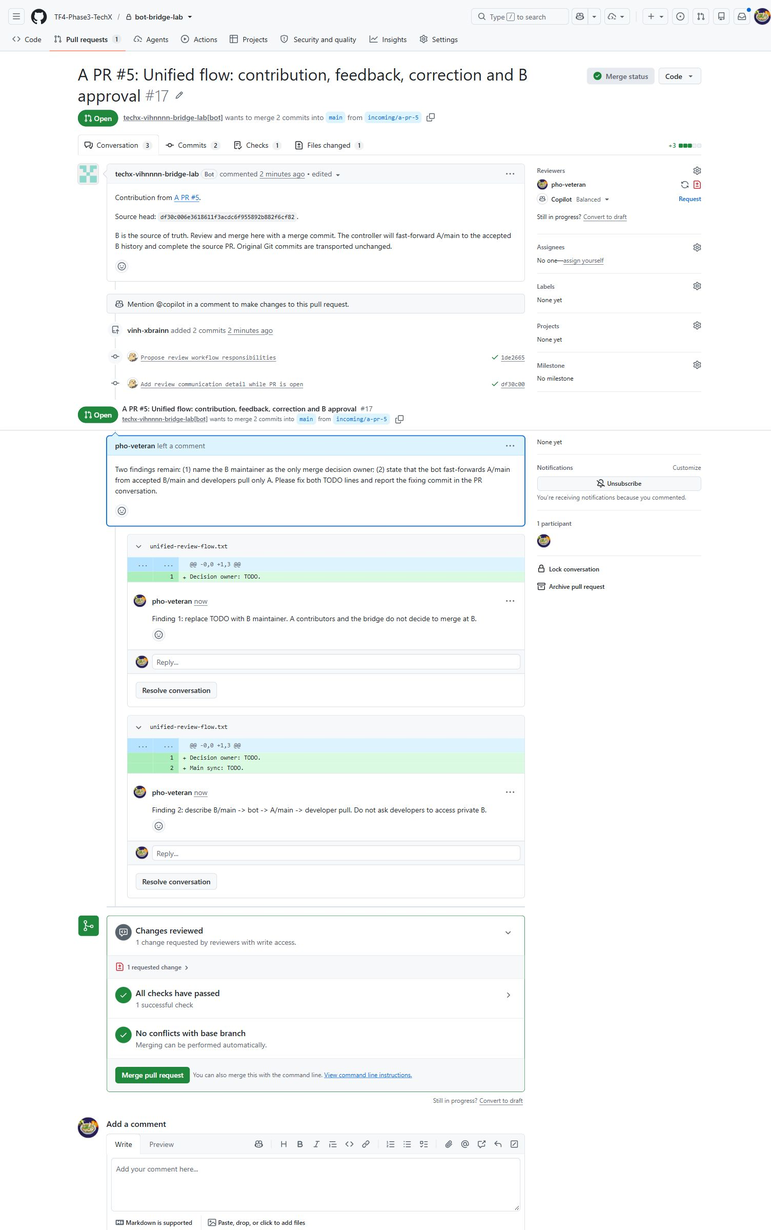
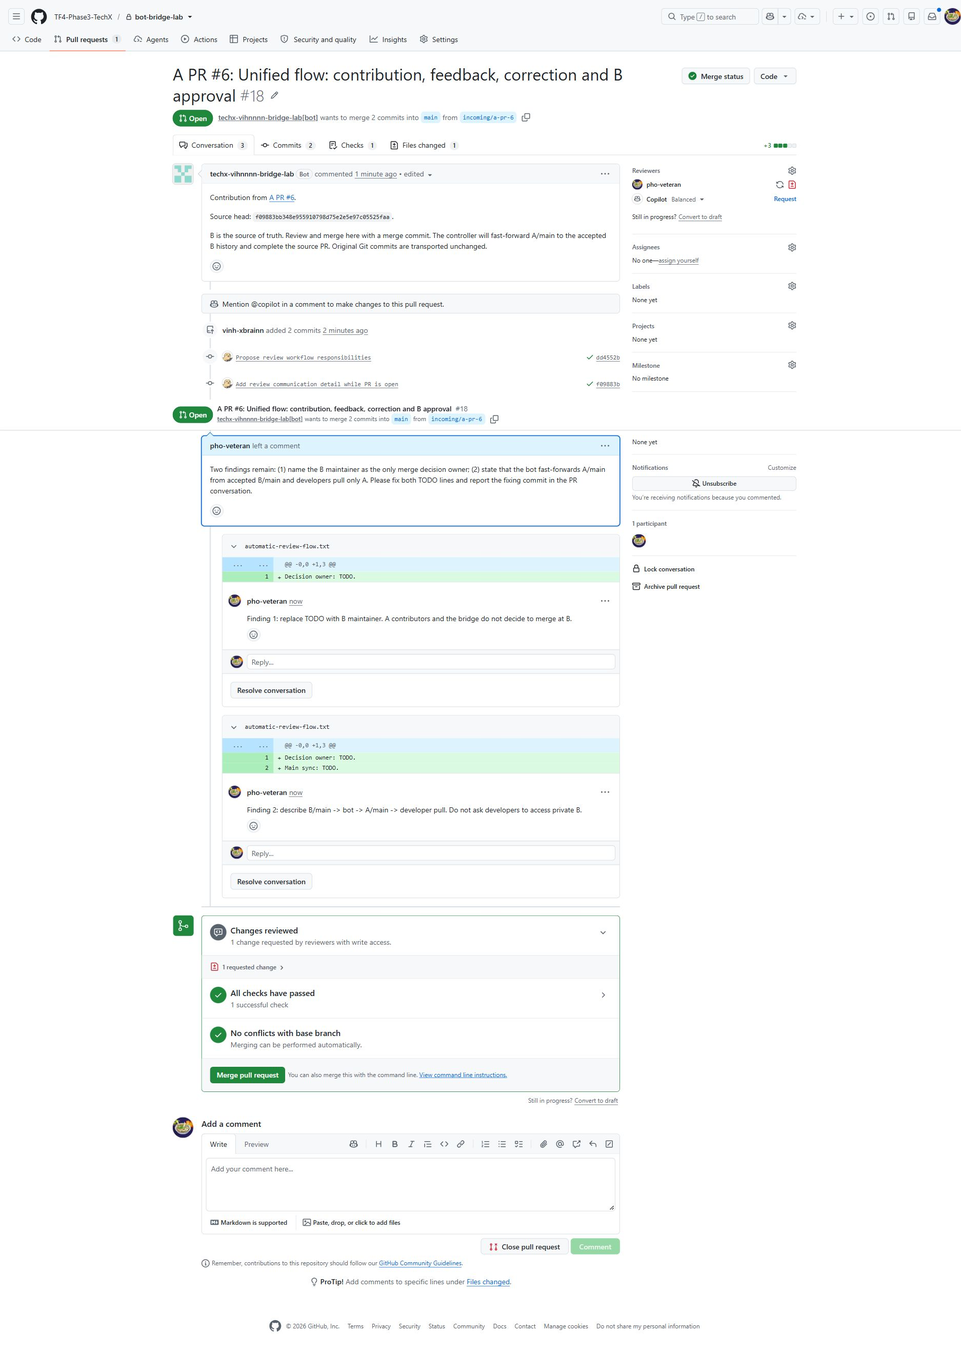
Document automatic B main push reconciliation with fresh end-to-end evidence

diff --git a/github-app-proposal.md b/github-app-proposal.md
@@ -25,6 +25,7 @@ Các ràng buộc:
 Member A clone/pull A/main → tạo feature branch → mở PR A, không merge
 → Controller đọc PR A, App B push branch đóng góp và mở PR B
 → Maintainer B review/test và merge vào B/main
+→ Sự kiện push tại B/main chạy notifier, App dispatch gọi controller
 → App A fast-forward A/main về đúng SHA của B/main
 → GitHub ghi nhận PR A đã merge vì commit đã nằm trong A/main
 → Member A pull từ repo A
@@ -32,11 +33,11 @@ Member A clone/pull A/main → tạo feature branch → mở PR A, không merge
 
 B chưa merge thì đóng góp vẫn nằm trên branch. B từ chối thì đóng góp không vào main. Bot không gọi API merge tại B và không tạo merge commit độc lập tại A. B dùng **Create a merge commit** để giữ nguyên commit gốc.
 
-Luồng hợp nhất đã chạy thật ngày **20/10/2026**, dùng cùng cặp PR **A #5 / B #17**: mở PR → thêm commit → Request changes → sửa và trao đổi comment hai chiều → approve → B merge → Actions reconcile A/main → PR A hoàn tất. Controller và key nằm trong repo riêng do B quản lý; developer A chỉ dùng repo A.
+Luồng hợp nhất đã chạy thật ngày **20/10/2026**, dùng cùng cặp PR **A #6 / B #18**: mở PR → thêm commit → Request changes → sửa và trao đổi comment hai chiều → approve → B merge → Actions reconcile A/main → PR A hoàn tất. Controller và key vận chuyển code nằm trong repo riêng do B quản lý; key dispatch chỉ nằm tại repo B; developer A chỉ dùng repo A.
 
 App B cần `Contents: write` để chuyển commit sang branch của repo B độc lập. GitHub không có permission đủ cho luồng này mà chỉ cho mở PR, tuyệt đối không cho merge. Để cưỡng chế “B quyết định”, phải kết hợp quyền App với bảo vệ B/main ở mục 2.4.
 
-GitHub App không tiêu thụ user seat. Actions của luồng mới chạy tại repo controller ở **org B**; chi phí phụ thuộc hạn mức và sử dụng của org này. Chi phí gói hỗ trợ branch protection là khoản riêng. [GitHub App và seat](https://docs.github.com/en/apps/creating-github-apps/about-creating-github-apps/deciding-when-to-build-a-github-app).
+GitHub App không tiêu thụ user seat. Actions notifier và controller chạy tại **org B**; chi phí phụ thuộc hạn mức và sử dụng của org này. Chi phí gói hỗ trợ branch protection là khoản riêng. [GitHub App và seat](https://docs.github.com/en/apps/creating-github-apps/about-creating-github-apps/deciding-when-to-build-a-github-app).
 
 Giải pháp giữ metadata tác giả, nhưng author/email tự cấu hình được nên chưa chứng minh danh tính người tạo commit. Nếu cần chống giả mạo, phải yêu cầu ký commit và xác minh signer; lab chưa cấu hình ký commit. App token không cấp cho tài khoản cá nhân A quyền mở giao diện private repo B.
 
@@ -44,7 +45,7 @@ Một cặp PR được giữ xuyên suốt các lần sửa. Code đi A → B; 
 
 ## 2. Setup lab GitHub App
 
-### 2.1. Tạo hai App và giới hạn quyền
+### 2.1. Tạo hai App vận chuyển code và giới hạn quyền
 
 Trong session `pho-veteran`, mở **TF4-Phase3-TechX → Settings → Developer settings → GitHub Apps → New GitHub App**. Tạo hai App do B quản lý:
 
@@ -101,13 +102,43 @@ Các file đã triển khai trong controller:
 - [`scripts/pr-bridge-comments.mjs`](https://github.com/TF4-Phase3-TechX/bot-bridge-controller/blob/main/scripts/pr-bridge-comments.mjs): sao chép comment hội thoại hai chiều, giữ nguồn và chống vòng lặp.
 - [`tests`](https://github.com/TF4-Phase3-TechX/bot-bridge-controller/tree/main/tests): 16 test gồm 7 policy/boundary, 5 review và 4 đồng bộ hội thoại.
 
-Controller chạy lịch ở phút **7, 22, 37, 52 mỗi giờ** hoặc được maintainer B bấm **Actions → Isolated bridge - B decides → Run workflow → main**. Cả chuyển PR sang B lẫn đồng bộ về A đều qua polling; mở PR tại A không kích hoạt ngay controller. Actions có thể bị trễ lịch.
+Khi **B/main có push mới**, gồm merge PR và commit trực tiếp, workflow tại B tự dispatch controller. Không cần maintainer bấm Run workflow hoặc đợi lịch để đồng bộ B/main về A/main. GitHub nhận sự kiện ngay; thời điểm job bắt đầu và hoàn tất vẫn phụ thuộc hàng đợi Actions.
+
+Lịch **7, 22, 37, 52 mỗi giờ** được giữ để đọc PR/comment/review và phục hồi nếu notifier lỗi. Mở PR, push feature hoặc viết comment tại A vẫn chờ lịch này, hoặc maintainer B bấm **Actions → Isolated bridge - B decides → Run workflow → main**. Không coi các sự kiện đó là realtime trong lab.
 
 Job `policy` kiểm tra code trước; job `reconcile` chỉ chạy trên main của đúng repo controller, khi bật `BRIDGE_ENABLED` và sự kiện là schedule/dispatch. Các lượt reconcile chạy tuần tự. `GITHUB_TOKEN` chỉ có Contents read để checkout controller; hai App tạo installation token giới hạn đúng một repo trong mỗi lượt chạy. Không lưu PAT cá nhân vào Actions.
 
 Job có key chỉ checkout main của controller do B quản lý. PR A được đọc như dữ liệu và Git objects, không checkout/chạy code, hook hoặc dependency từ contribution. CI chạy riêng không nhận key bridge; các action được pin bằng commit SHA.
 
 Lab đã tắt workflow cũ `bridge-to-b.yml` tại cả A và B, gỡ secret/variable bridge cũ tại A. API xác nhận **repo A có 0 Actions secrets**. Member A không có quyền đọc repo controller. Các file controller cũ có thể còn trong lịch sử repo lab, nhưng luồng đang chạy dùng repo controller riêng ở trên.
+
+**App thứ ba chỉ dùng để kích hoạt controller**
+
+1. B tạo `TechX Controller Dispatch Lab`: chỉ `Actions: read and write`, `Metadata: read`; các quyền khác No access, webhook tắt, chỉ cho cài tại org B.
+2. Cài App với **Only select repositories → bot-bridge-controller**. Không cài App dispatch tại repo code A hoặc B.
+3. Tại **repo B → Settings → Secrets and variables → Actions**, lưu variable `CONTROLLER_DISPATCH_APP_CLIENT_ID` = `Iv23li4rfDPJcho8vRzt`, secret `CONTROLLER_DISPATCH_APP_PRIVATE_KEY` = PEM của App dispatch. Key hai App vận chuyển code vẫn chỉ ở controller.
+4. Deploy controller có inputs `source_repo`, `source_sha`, `source_run_id` trước; sau đó B thêm [`.github/workflows/notify-controller.yml`](https://github.com/TF4-Phase3-TechX/bot-bridge-lab/blob/main/.github/workflows/notify-controller.yml) vào main.
+
+App dispatch đã cài: App ID `5390691`, installation `173256492`; API xác nhận chỉ thấy `TF4-Phase3-TechX/bot-bridge-controller`.
+
+```text
+B/main push
+→ B: Notify controller on B main update
+→ Token App dispatch, chỉ repo controller / Actions write
+→ POST controller.yml/dispatches, ref=main
+→ Controller: policy → reconcile
+→ Đọc B/main thực tế → fast-forward A/main → cập nhật PR A
+```
+
+Notifier không checkout/chạy code contribution; `GITHUB_TOKEN` có `permissions: {}`. Repo đích, workflow và ref được cố định trong YAML. SHA và run ID chỉ để truy vết; controller không dùng SHA do người gọi gửi để thay thế B/main thực tế. Bản workflow được đồng bộ sang A nhưng job có điều kiện đúng repo B và `refs/heads/main`, nên bị skip ở A và không tạo vòng lặp.
+
+`Actions: write` áp dụng toàn repo controller, **không phải quyền chỉ chạy một workflow**. Bảo vệ key dispatch và quyền sửa workflow B; không checkout code PR hoặc dùng `pull_request_target` với key này. Người sửa được workflow B có thể sử dụng credential dispatch. Controller vẫn phải kiểm tra repo/ref và giữ nguyên các guard ở mục 2.4.
+
+Push do `GITHUB_TOKEN` tạo thường không kích hoạt workflow tiếp theo. Automation ghi B/main phải dùng GitHub App token phù hợp hoặc gọi dispatch rõ ràng; lab kiểm tra push và merge bằng tài khoản maintainer. Nếu push có chỉ thị skip CI hoặc Actions bị tắt thì notifier cũng không đảm bảo chạy; lịch controller là phương án phục hồi. [Quy tắc kích hoạt bằng token](https://docs.github.com/en/actions/concepts/security/github_token).
+
+**Kiểm tra khi cài notifier:** commit trực tiếp `5c1db8e` tại B/main tự tạo [notifier run 39366960115](https://github.com/TF4-Phase3-TechX/bot-bridge-lab/actions/runs/39366960115), rồi [controller run 39366971430](https://github.com/TF4-Phase3-TechX/bot-bridge-controller/actions/runs/39366971430) sau 8 giây. Cả hai Success; A/main được fast-forward về đúng SHA của B. Phần 3 kiểm tra tiếp trường hợp merge PR.
+
+![Kiểm tra push trực tiếp: App dispatch tự chạy controller và đồng bộ A/main](proposal-images/auto-02-direct-push.png)
 
 ### 2.4. Guard đã triển khai và bảo vệ nhánh cần bổ sung
 
@@ -195,11 +226,13 @@ Endpoint chỉ chấp nhận đúng lệnh, repo/installation đã cấu hình v
 
 Dùng credential riêng chỉ cài tại controller với Actions write để dispatch; giữ credential ở endpoint do B quản lý, không đặt ở A và không mở rộng quyền App B vận chuyển code. Actions write là quyền cấp repo, không tự giới hạn vào một workflow; endpoint phải cưỡng chế danh sách thao tác được phép. Developer chỉ có quyền yêu cầu chạy lại, không có quyền merge, force-sync hay bỏ qua trạng thái review. [API workflow dispatch](https://docs.github.com/en/rest/actions/workflows#create-a-workflow-dispatch-event).
 
-Đây là phần mở rộng **chưa triển khai**: cần endpoint chạy được từ Internet, cấu hình webhook App A và credential dispatch. Lệnh `/bridge sync` hiện chưa có tác dụng trong lab. Nếu chỉ bổ sung đọc lệnh qua lịch polling thì không cần endpoint, nhưng vẫn phải đợi lịch; đó không phải kích hoạt ngay. Thời gian chạy sau dispatch cũng phụ thuộc hàng đợi GitHub Actions.
+Đây là phần mở rộng **chưa triển khai**: cần endpoint chạy được từ Internet và cấu hình webhook App A; credential cho endpoint phải được cấp riêng. App dispatch ở mục 2.3 hiện chỉ phục vụ workflow B/main, chưa có endpoint nhận lệnh từ A. Lệnh `/bridge sync` hiện chưa có tác dụng trong lab. Nếu chỉ bổ sung đọc lệnh qua lịch polling thì không cần endpoint, nhưng vẫn phải đợi lịch; đó không phải kích hoạt ngay. Thời gian chạy sau dispatch cũng phụ thuộc hàng đợi GitHub Actions.
 
 ## 3. Triển khai — Một luồng từ contribution đến B merge và A reconcile
 
-Lượt test ngày **20/10/2026** dùng duy nhất [PR A #5](https://github.com/Vihnnnn/bot-bridge-lab/pull/5) và [PR B #17](https://github.com/TF4-Phase3-TechX/bot-bridge-lab/pull/17). Mỗi ảnh dưới đây thuộc cặp PR này hoặc Actions xử lý cặp PR này.
+Lượt test ngày **20/10/2026** dùng duy nhất [PR A #6](https://github.com/Vihnnnn/bot-bridge-lab/pull/6) và [PR B #18](https://github.com/TF4-Phase3-TechX/bot-bridge-lab/pull/18). Mỗi ảnh dưới đây thuộc cặp PR này hoặc Actions xử lý cặp PR này.
+
+Ảnh diff sửa và comment “đã xử lý” được chụp lại sau khi luồng hoàn tất để thấy đủ nội dung; badge Merged trên các ảnh đó là trạng thái lúc chụp. Commit, review và comment trong timeline ghi lại đúng thứ tự các bước.
 
 ```text
 A mở PR → bot mở PR B
@@ -207,45 +240,45 @@ A mở PR → bot mở PR B
 → B Request changes → bot đưa đầy đủ findings về A
 → A sửa diff + comment đã xử lý → bot chuyển code và comment sang B
 → B approve + phản hồi → bot đưa approval và comment về A
-→ Maintainer B merge
-→ Actions controller reconcile A/main từ B/main
+→ Maintainer B merge → B/main push kích hoạt notifier
+→ App dispatch tự gọi Actions controller → reconcile A/main từ B/main
 → PR A hoàn tất → developer pull từ repo A
 ```
 
-Tất cả lệnh developer dưới đây chỉ truy cập A. Controller chạy theo lịch hoặc được maintainer B dispatch tại repo controller. Trong lượt lab, mỗi mốc dùng dispatch để quan sát ngay; không đặt credential controller ở A.
+Tất cả lệnh developer dưới đây chỉ truy cập A. Các mốc chuyển PR, commit, review và comment trong lượt test dùng maintainer dispatch để quan sát ngay thay vì chờ lịch. Riêng sau B merge, notifier tự dispatch controller từ sự kiện push; không có thao tác Run workflow của maintainer. Không đặt credential controller ở A.
 
 ### Bước 1 — Developer tạo branch, commit và mở PR A
 
-Đầu lượt test, A/main và B/main cùng ở `ad284ade83f7633d3dbe0f89b52ca3ebfa716f3b`. Developer dùng tài khoản `vinh-xbrainn`:
+Đầu lượt test, A/main và B/main cùng ở `5c1db8e9700b777821cd4a8208f05d109a30b76b`. Developer dùng tài khoản `vinh-xbrainn`:
 
 ```powershell
 git clone https://github.com/Vihnnnn/bot-bridge-lab.git
 Set-Location bot-bridge-lab
 git switch main
 git pull --ff-only origin main
-git switch -c feature/unified-review-flow-20261020
+git switch -c feature/automatic-review-flow-20261020
 
 @(
   'Decision owner: TODO.'
   'Main sync: TODO.'
-) | Set-Content -LiteralPath unified-review-flow.txt -Encoding ASCII
+) | Set-Content -LiteralPath automatic-review-flow.txt -Encoding ASCII
 
-git add unified-review-flow.txt
+git add automatic-review-flow.txt
 git commit -m 'Propose review workflow responsibilities'
-git push -u origin feature/unified-review-flow-20261020
+git push -u origin feature/automatic-review-flow-20261020
 ```
 
 Git author/email phải là thông tin của developer. Lượt lab dùng email đã liên kết với `vinh-xbrainn`; không dùng tên bot thay cho tác giả. Khi tái hiện, dùng branch/file mới; SHA sẽ khác.
 
-Tại A chọn **Pull requests → New pull request**, base `main`, compare branch vừa push. Mở PR, không merge tại A. Commit đầu của lượt test là **`1de2665`**.
+Tại A chọn **Pull requests → New pull request**, base `main`, compare branch vừa push. Mở PR, không merge tại A. Commit đầu của lượt test là **`dd4552b`**.
 
-![PR A số 5 do developer mở, có một commit và đang Open](proposal-images/flow-01-a-open.png)
+![PR A số 6 do developer mở, có một commit và đang Open](proposal-images/flow-01-a-open.png)
 
 ### Bước 2 — Bot mở PR tương ứng tại B
 
-Controller đọc PR A, chuyển nguyên commit sang branch `incoming/a-pr-5` và mở **PR B #17**. App A báo trạng thái chờ B tại PR A. [Run chuyển PR đầu tiên](https://github.com/TF4-Phase3-TechX/bot-bridge-controller/actions/runs/39364621268) đã thành công.
+Controller đọc PR A, chuyển nguyên commit sang branch `incoming/a-pr-6` và mở **PR B #18**. App A báo trạng thái chờ B tại PR A. [Run chuyển PR đầu tiên](https://github.com/TF4-Phase3-TechX/bot-bridge-controller/actions/runs/39367026771) đã thành công.
 
-![App B mở PR số 17 từ contribution A số 5, giữ head và author gốc](proposal-images/flow-02-b-open.png)
+![App B mở PR số 18 từ contribution A số 6, giữ head và author gốc](proposal-images/flow-02-b-open.png)
 
 Hai main vẫn ở baseline. Mở PR và push feature branch chưa đưa contribution vào main.
 
@@ -254,23 +287,23 @@ Hai main vẫn ở baseline. Mở PR và push feature branch chưa đưa contrib
 Developer tiếp tục ngay trên branch đang mở:
 
 ```powershell
-Add-Content -LiteralPath unified-review-flow.txt -Value 'Review communication: mirrored comments between paired PRs.' -Encoding ASCII
-git add unified-review-flow.txt
+Add-Content -LiteralPath automatic-review-flow.txt -Value 'Review communication: mirrored comments between paired PRs.' -Encoding ASCII
+git add automatic-review-flow.txt
 git commit -m 'Add review communication detail while PR is open'
-git push origin feature/unified-review-flow-20261020
+git push origin feature/automatic-review-flow-20261020
 ```
 
-Commit thứ hai là **`df30c00`**:
+Commit thứ hai là **`f09883b`**:
 
-![Diff của commit bổ sung trên branch A khi PR vẫn đang mở](proposal-images/flow-03-a-new-commit.png)
+![Danh sách hai commit trên branch A khi PR vẫn đang mở](proposal-images/flow-03-a-new-commit.png)
 
-[Run cập nhật commit](https://github.com/TF4-Phase3-TechX/bot-bridge-controller/actions/runs/39364701675) đẩy head mới sang **cùng PR B #17**. Không mở thêm PR và không force-push.
+[Run cập nhật commit](https://github.com/TF4-Phase3-TechX/bot-bridge-controller/actions/runs/39367127332) đẩy head mới sang **cùng PR B #18**. Không mở thêm PR và không force-push.
 
-![PR B số 17 có hai commit của developer, gồm commit mới df30c00](proposal-images/flow-04-b-updated.png)
+![PR B số 18 có hai commit của developer, gồm commit mới f09883b](proposal-images/flow-04-b-updated.png)
 
 ### Bước 4 — B Request changes với hai findings cụ thể
 
-Maintainer B kiểm tra diff tại head `df30c00` rồi chọn **Review changes → Request changes**:
+Maintainer B kiểm tra diff tại head `f09883b` rồi chọn **Review changes → Request changes**:
 
 1. Dòng 1: xác định maintainer B là người quyết định merge.
 2. Dòng 2: mô tả bot fast-forward A/main từ B/main đã được chấp nhận; developer chỉ pull A.
@@ -296,16 +329,16 @@ Developer sửa cùng branch:
   'Decision owner: B maintainer.'
   'Main sync: the bot fast-forwards A/main from accepted B/main; developers pull only A.'
   'Review communication: mirrored comments between paired PRs.'
-) | Set-Content -LiteralPath unified-review-flow.txt -Encoding ASCII
+) | Set-Content -LiteralPath automatic-review-flow.txt -Encoding ASCII
 
 git diff
-git add unified-review-flow.txt
+git add automatic-review-flow.txt
 git commit -m 'Address both B review findings and clarify main synchronization'
-git push origin feature/unified-review-flow-20261020
+git push origin feature/automatic-review-flow-20261020
 git rev-parse HEAD
 ```
 
-Commit sửa của lượt test là **`8ed6b0f6b8a210170a55ced35e742ccc82d224d3`**:
+Commit sửa của lượt test là **`2c03f875b7e453ae88753a9d2c2f14bf9efa0ac3`**:
 
 ![Diff mới tại A thay hai TODO bằng nội dung đáp ứng findings của B](proposal-images/flow-07-a-fixed-diff.png)
 
@@ -313,7 +346,7 @@ Trong **Conversation** của PR A, developer gửi comment ghi rõ findings đã
 
 ![Developer A comment đã xử lý finding 1 và 2, nêu SHA và nội dung sửa](proposal-images/flow-08-a-addressed.png)
 
-Controller đưa commit mới và comment này sang PR B #17. Comment tại B ghi rõ người viết gốc là `vinh-xbrainn`, kèm liên kết comment nguồn. App đăng bản sao bằng identity của App, không giả danh developer.
+Controller đưa commit mới và comment này sang PR B #18. Comment tại B ghi rõ người viết gốc là `vinh-xbrainn`, kèm liên kết comment nguồn. App đăng bản sao bằng identity của App, không giả danh developer.
 
 ![PR B nhận comment đã xử lý findings từ A cùng SHA bản sửa](proposal-images/flow-09-b-addressed.png)
 
@@ -335,25 +368,41 @@ Comment hội thoại được sao chép **A ↔ B**; review đã submit và com
 
 Sau khi xác nhận đúng bản sửa, maintainer B chọn **Create a merge commit → Confirm merge**. Trong lab, thao tác dùng API với tài khoản `pho-veteran`, phương thức `merge` và expected head SHA. Bot không gọi merge endpoint.
 
-![PR B số 17 được maintainer B merge sau Request changes và Approved](proposal-images/flow-12-b-merged.png)
+![PR B số 18 được maintainer B merge sau Request changes và Approved](proposal-images/flow-12-b-merged.png)
 
-Merge commit là **`bfc5128aa61fc042aad57ab1e36b206791c2ac8b`**. B/main là lịch sử đã được chấp nhận. A/main được cập nhật trong lượt controller tiếp theo.
+Merge commit là **`40d3fb87978565ff8f9a2fd563887e7d8bdfcf3e`**. B/main là lịch sử đã được chấp nhận. Sự kiện push của merge này tự kích hoạt workflow notifier tại B; notifier gọi controller để cập nhật A/main.
 
-### Bước 9 — Actions reconcile A/main từ B/main
+### Bước 9 — B/main push tự kích hoạt Actions reconcile
+
+Merge PR B #18 tạo sự kiện `push` tại B/main. [Workflow notifier tại B — run 39367442048](https://github.com/TF4-Phase3-TechX/bot-bridge-lab/actions/runs/39367442048) tự chạy và dùng App dispatch gọi `controller.yml` trên main. Không bấm Run workflow sau merge.
+
+![B merge tạo push event và notifier tự gửi dispatch thành công](proposal-images/flow-12b-b-notify.png)
 
 Workflow tại repo controller đọc ref B/main thực tế và kiểm tra A/main có thể fast-forward. App A đẩy đúng merge SHA của B vào A/main; không tạo merge commit độc lập tại A.
 
-[Run 39365362024](https://github.com/TF4-Phase3-TechX/bot-bridge-controller/actions/runs/39365362024) hoàn tất **Success**; job policy pass 16 test và job reconcile báo cặp A #5 / B #17 là `accepted`.
+[Run 39367452216](https://github.com/TF4-Phase3-TechX/bot-bridge-controller/actions/runs/39367452216) hoàn tất **Success**; job policy pass 16 test và job reconcile báo cặp A #6 / B #18 là `accepted`.
 
 ![Actions thành công: A/main sau reconcile trùng B/main và cặp PR được accepted](proposal-images/flow-13-reconcile.png)
 
-Trong lab, maintainer B dispatch workflow sau merge. Trong vận hành hiện tại, lịch polling tự thực hiện bước này; merge B **chưa có webhook kích hoạt controller ngay lập tức**. CI trên PR B kiểm tra contribution; job `reconcile` trong controller thực hiện đồng bộ. Hai vai trò này tách biệt.
+GitHub hiển thị “Manually triggered” cho event `workflow_dispatch`, kể cả khi API được bot gọi. Trong run này, actor là **`techx-controller-dispatch-lab[bot]`**; summary liên kết trực tiếp tới push workflow tại B và ghi SHA nguồn. Đây là chuỗi tự động, không phải maintainer dispatch.
+
+Thời gian API ghi nhận ngày 20/10/2026, múi giờ Việt Nam:
+
+| Mốc | Thời gian |
+|---|---|
+| B notifier được tạo bởi push sau merge | 11:02:26 |
+| Controller được App dispatch tạo | 11:02:33 |
+| Job reconcile hoàn tất Success | 11:03:22 |
+
+Controller được tạo **7 giây** sau notifier; toàn chuỗi tới lúc reconcile hoàn tất là **56 giây** trong lượt test. Đây là số đo thực tế, không phải cam kết độ trễ. Không chờ lịch polling; thời gian chạy còn phụ thuộc hàng đợi Actions.
+
+CI trên PR B kiểm tra contribution; notifier báo main thay đổi; controller đồng bộ kết quả. Khi notifier được chép sang A, job tại A bị skip theo điều kiện repo, không dispatch ngược lại. API xác nhận A vẫn có **0 Actions secrets**.
 
 ### Bước 10 — PR A hoàn tất, developer pull từ A
 
 Khi commit của feature đã nằm trong A/main, GitHub ghi nhận PR A là **Merged** (`state: closed`, `merged: true`). Comment của bot xác nhận B đã chấp nhận và SHA đã đồng bộ. Developer A không bấm merge PR A.
 
-![PR A số 5 hoàn tất sau reconcile, bot báo accepted và cùng merge SHA của B](proposal-images/flow-14-a-completed.png)
+![PR A số 6 hoàn tất sau reconcile, bot báo accepted và cùng merge SHA của B](proposal-images/flow-14-a-completed.png)
 
 Developer nhận code:
 
@@ -361,17 +410,17 @@ Developer nhận code:
 git switch main
 git pull --ff-only origin main
 git log -4 --format='%h | %an | %s'
-Get-Content -LiteralPath unified-review-flow.txt
+Get-Content -LiteralPath automatic-review-flow.txt
 git remote -v
 ```
 
-Đã chạy pull thật bằng tài khoản `vinh-xbrainn`: local HEAD, A/main và B/main đều bằng **`bfc5128aa61fc042aad57ab1e36b206791c2ac8b`**, working tree sạch. Kết quả log:
+Đã chạy pull thật bằng tài khoản `vinh-xbrainn`: local HEAD, A/main và B/main đều bằng **`40d3fb87978565ff8f9a2fd563887e7d8bdfcf3e`**, working tree sạch. Kết quả log:
 
 ```text
-bfc5128 | Nguyen Thanh Vinh | Merge pull request #17 from TF4-Phase3-TechX/incoming/a-pr-5
-8ed6b0f | vinh-xbrainn | Address both B review findings and clarify main synchronization
-df30c00 | vinh-xbrainn | Add review communication detail while PR is open
-1de2665 | vinh-xbrainn | Propose review workflow responsibilities
+40d3fb8 | Nguyen Thanh Vinh | Merge pull request #18 from TF4-Phase3-TechX/incoming/a-pr-6
+2c03f87 | vinh-xbrainn | Address both B review findings and clarify main synchronization
+f09883b | vinh-xbrainn | Add review communication detail while PR is open
+dd4552b | vinh-xbrainn | Propose review workflow responsibilities
 ```
 
 ![File trên A/main chứa nội dung cuối đã được B chấp nhận](proposal-images/flow-15-a-main.png)
